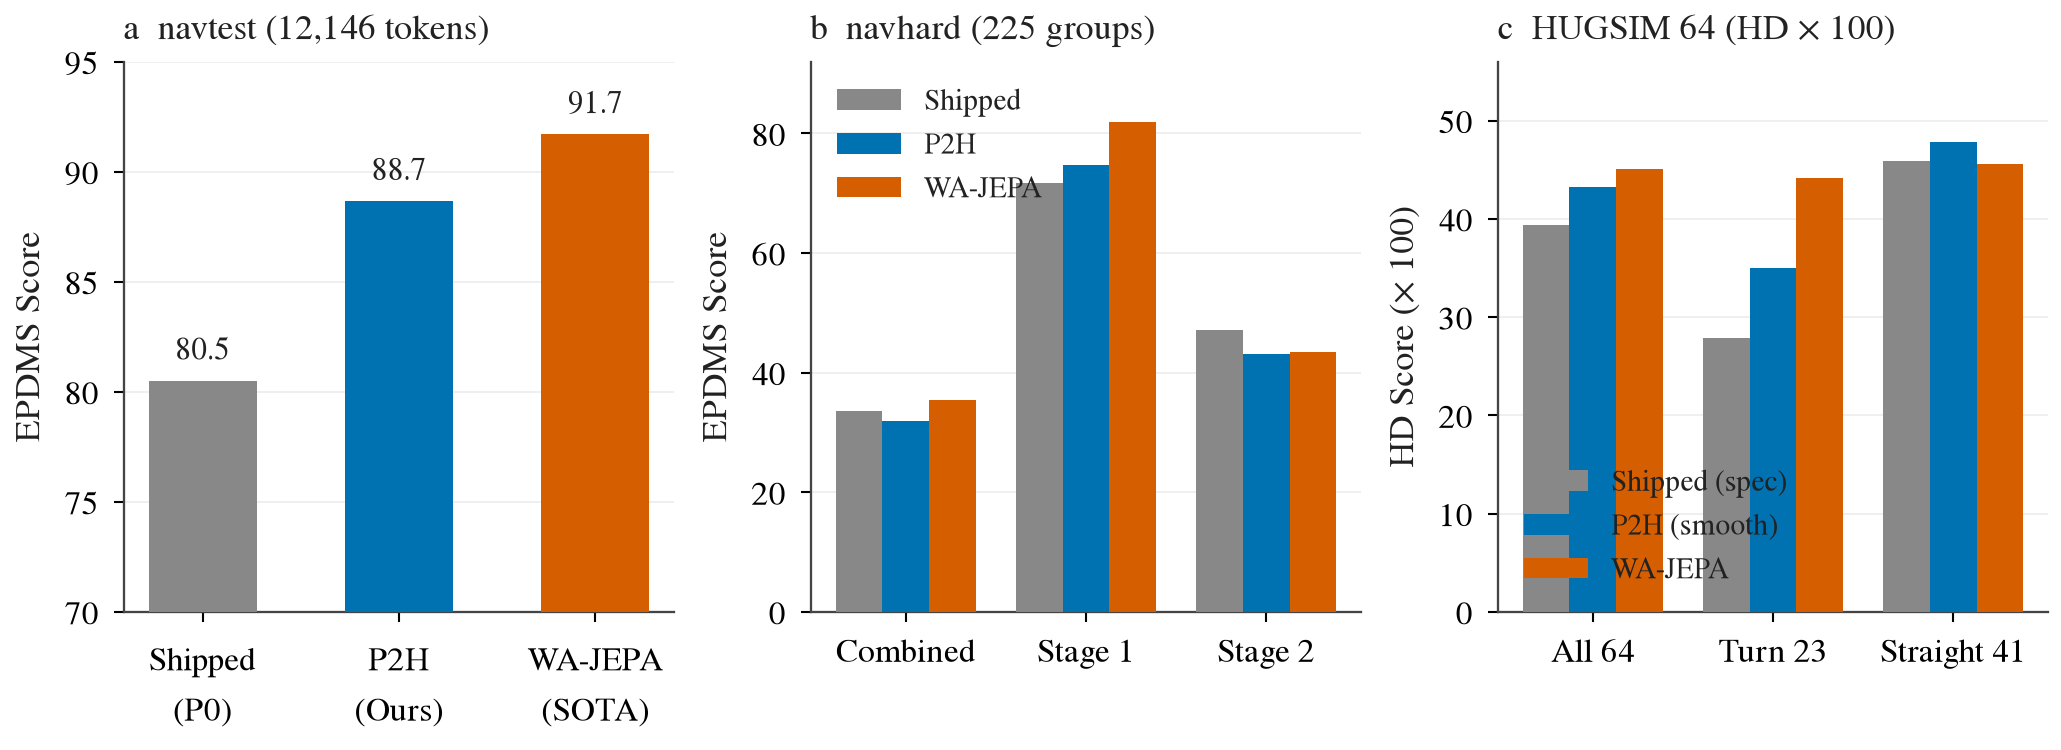
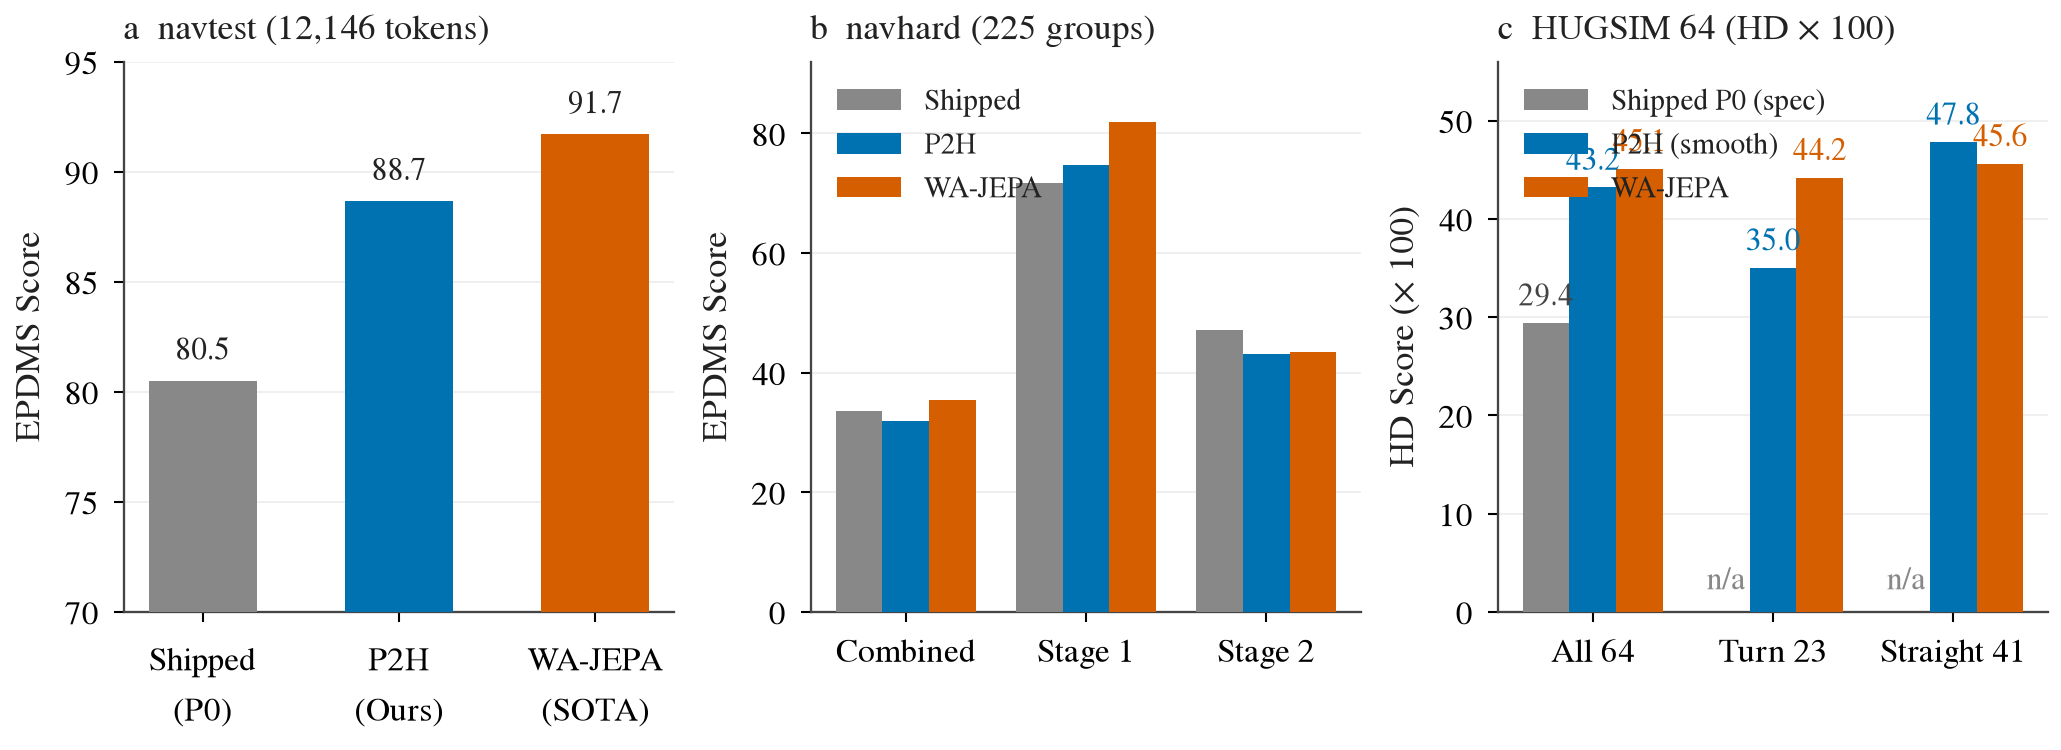
research: correct HUGSIM shipped P0 scores, tone down ego-history slowing claim to hypothesis

diff --git a/research/four-directions.html b/research/four-directions.html
@@ -22,7 +22,7 @@ ul{padding-left:20px}li{margin-bottom:6px}
 <div class="v">
 <b>结论（四个方向一览与定性定位）：</b><br>
 WA-JEPA 对 P2H 的总差距：navtest 为 3.04 [2.32, 3.74] 分，navhard 为 3.57 [−0.21, +7.57] 分，HUGSIM 64 为 +1.9 HD×100 [−5.4, +9.8]（不显著）。三个驾驶方向占 navtest 差距的 2.27 [1.76, 2.77] 分（Shapley 份额）。<br>
-<b>1. 急弯（R &lt; 15 m）：</b>navtest 替换上限 1.04 分（Shapley 0.87），54% 为内侧切角（前角在 3.4 s 切入 0.40 m，原始 plan 66% 已出界），用户直觉的「转不过去」仅占 26%（0.23 分）；HUGSIM 占 2.7 HD 分（5 场景），80% 是入弯过快（中位 9.8 对 WA 2.7 m/s），曲率仅达所需 0.51 倍；根因约 58% 在冻结视觉、40% 在 head 目标，HUGSIM 缺少人类在弯前先减速的自车历史；修复在 replay hinge 与表征提升；下一步为离线薄解码器验证与自车历史匀速探针（全量转弯训练已因 pilot 闭合仅 0.01–0.02 排除）。<br>
+<b>1. 急弯（R &lt; 15 m）：</b>navtest 替换上限 1.04 分（Shapley 0.87），54% 为内侧切角（前角在 3.4 s 切入 0.40 m，原始 plan 66% 已出界），用户直觉的「转不过去」仅占 26%（0.23 分）；HUGSIM 占 2.7 HD 分（5 场景），80% 是入弯过快（中位 9.8 对 WA 2.7 m/s），曲率仅达所需 0.51 倍；推测 HUGSIM 快速入弯源于自车历史中缺少人类弯前减速信号（假说，检验运行中）；根因约 58% 在冻结视觉、40% 在 head 目标；修复在 replay hinge 与表征提升；下一步为离线薄解码器验证与自车历史匀速探针（全量转弯训练已因 pilot 闭合仅 0.01–0.02 排除）。<br>
 <b>2. 宽弯擦边（R ≥ 15 m）：</b>navtest 替换上限 1.00 分（Shapley 0.66），62% 为 &lt; 0.3 m 浅擦边，42% 仅在 devkit LQR 回放时出界；HUGSIM 仅 2 场景且为晚打方向擦外侧（平滑窗口提前抄内角假设被否定）；修复在跟踪器几何前角余量 hinge（replay hinge）；下一步为离线薄解码器门禁。<br>
 <b>3. 撞车：</b>navtest 替换上限 1.16 分（Shapley 0.87），36% 为前方静止车（其中 64% 在转弯 token），49% 碰撞 plan 速度超日志 ≥ 10%；HUGSIM 车辆碰撞（fg）占全部丢失 HD 的 42.8 分（75%），其中 21 场景为脚本对向车（不可规避，停下亦被撞），可修的前方静止/慢车（D3b，10 场景）上限 3.8 分，根因为近距离 lead 测距严重偏远（&lt; 3 m 时多读 +1.95 m）；修复在训练 loss 增加 agent hinge 与执行层 lead 停车余量规则；下一步为 agent hinge pilot 训练与 lead margin 离线 trace 回放。<br>
 <b>4. 夜间 / 低光：</b>navtest、navhard、HUGSIM 64 前摄中位亮度低于 50 的单元均为 0（最暗 55.8–65.0，目检均为白天阴影与阴天），本档损失为 0.00 分；夜间缺陷移至 WOD 档独立处理（openpilot 夜间 ADE@3s +0.43 m）。<br>
@@ -40,15 +40,15 @@ WA-JEPA 对 P2H 的总差距：navtest 为 3.04 [2.32, 3.74] 分，navhard 为 3
 <tr><td>navhard 综合（225 组，G 帧）</td><td>33.54</td><td>30.34</td><td><b>31.84</b> (31.40 / 32.28)</td><td><b>35.41</b></td><td>+3.57 [−0.21, +7.57]</td></tr>
 <tr><td>- navhard 阶段 1（开环日志）</td><td>71.79</td><td>73.13</td><td>74.73</td><td>81.90</td><td>+7.17 [+2.54, +12.27]</td></tr>
 <tr><td>- navhard 阶段 2（偏移起点）</td><td>47.08</td><td>42.44</td><td>43.04</td><td>43.53</td><td>+0.49 [−0.86, +1.84]</td></tr>
-<tr><td>HUGSIM 64 全部（HD × 100，两 seed 均值）</td><td>39.4 (spec) / 39.8 (exam)</td><td>42.5 (smooth)</td><td><b>43.2</b> (43.12 / 43.17)</td><td><b>45.1</b> (45.06)</td><td>+1.9 [−5.4, +9.8]（不显著）</td></tr>
-<tr><td>- HUGSIM 转弯路线（turn23，23 场景）</td><td>27.9 (spec) / 31.2 (exam)</td><td>33.3 (smooth)</td><td>35.0 (35.01)</td><td><b>44.2</b> (44.17)</td><td>+9.2 [−2.1, +20.5]</td></tr>
-<tr><td>- HUGSIM 直行路线（straight41，41 场景）</td><td>45.9 (spec) / 44.6 (exam)</td><td>48.2 (smooth)</td><td><b>47.8</b> (47.75)</td><td>45.6 (45.56)</td><td><b>−2.2</b>（P2H 领先 2.2 分）</td></tr>
+<tr><td>HUGSIM 64 全部（HD × 100）</td><td>26.3 (exam) / 29.4 (spec)</td><td>39.6 (exam) / 39.3 (spec)</td><td><b>43.2 (smooth)</b> (40.0 exam / 39.5 spec)</td><td><b>45.1</b> (45.06)</td><td>+1.9 [−5.4, +9.8]（不显著）</td></tr>
+<tr><td>- HUGSIM 转弯路线（turn23，23 场景）</td><td>n/a</td><td>n/a</td><td><b>35.0 (smooth)</b> (27.8 spec)</td><td><b>44.2</b> (44.17)</td><td>+9.2 [−2.1, +20.5]</td></tr>
+<tr><td>- HUGSIM 直行路线（straight41，41 场景）</td><td>n/a</td><td>n/a</td><td><b>47.8 (smooth)</b> (46.1 spec)</td><td>45.6 (45.56)</td><td><b>−2.2</b>（P2H 领先 2.2 分）</td></tr>
 </table>
-<div class="cite">数据来源：experiments/op_parity/results/four_dirs.md、hinge.md、hugsim_specplan.md、four_dirs/hugsim_tables.md。注：HUGSIM 64 出厂 shipped 早期零输入 exam 读数为 26.3，全量 spec/exam 基线读数为 39.4/39.8。</div>
+<div class="cite">数据来源：experiments/op_parity/results/four_dirs.md、hugsim_full.md（出厂 P0 见第 12 行：exam 0.263 / spec 0.294；P2 见第 14 行：exam 0.396 / spec 0.393）、hinge.md、hugsim_specplan.md（4 臂均值：全量 0.428 smooth / 0.394 spec / 0.398 exam；turn23 0.333 smooth / 0.279 spec / 0.312 exam；straight41 0.482 smooth / 0.459 spec / 0.446 exam；注：4 臂均值为 P2+P2H 跨臂均值，非出厂亦非 P2 单臂）、four_dirs/hugsim_tables.md。出厂 P0 与 P2 单臂未在任何报告文件中评测 turn23 与 straight41 切片，按规则记为 n/a。</div>
 
 <figure>
 <img src="figs/four-directions/fig1_current_position.png" alt="当前位置基准对比">
-<figcaption>图一：P2H、WA-JEPA 与出厂模型在各基准上的得分对比。（a）navtest 上 P2H 达 88.67 分，比出厂提升 8.16 分，距 WA-JEPA 差 3.04 分；（b）navhard 上 P2H 综合为 31.84 分，阶段 2 与 WA-JEPA 持平（43.04 对 43.53），差距集中在阶段 1；（c）HUGSIM 64 闭环中，P2H 在平滑转换下全量得分 43.2，与 WA-JEPA（45.1）无统计显著差距，且在 41 条直行路线上以 47.8 超过 WA-JEPA（45.6），短板集中在 23 条转弯路线（35.0 对 44.2）。</figcaption>
+<figcaption>图一：P2H、WA-JEPA 与出厂模型在各基准上的得分对比。（a）navtest 上 P2H 达 88.67 分，比出厂提升 8.16 分，距 WA-JEPA 差 3.04 分；（b）navhard 上 P2H 综合为 31.84 分，阶段 2 与 WA-JEPA 持平（43.04 对 43.53），差距集中在阶段 1；（c）HUGSIM 64 闭环中，出厂模型 P0 全量 HD 为 29.4（spec，exam 为 26.3，turn23 与 straight41 无数据记为 n/a），P2H 在平滑转换下全量得分 43.2，与 WA-JEPA（45.1）无统计显著差距，且在 41 条直行路线上以 47.8 超过 WA-JEPA（45.6），短板集中在 23 条转弯路线（35.0 对 44.2）。</figcaption>
 </figure>
 
 <figure>
@@ -61,7 +61,7 @@ WA-JEPA 对 P2H 的总差距：navtest 为 3.04 [2.32, 3.74] 分，navhard 为 3
 <h3>1. 典型失败案例与现场</h3>
 <p>
 用户观察到的直觉现象是「车转不过弯，冲出道路」。
-在 HUGSIM 中，该现象完全真实存在，典型案例为 <code>scene-570_770-easy-00</code>（KITTI-360 丁字路口）：P2H 以 12–13 m/s 的高速直冲路口，模型规划的 plan 一直保持笔直，直到距路沿仅剩 1 秒时才急剧打方向，导致车辆以近 10 m/s 冲上对角路沿；exam 预设直接跟踪相同迟钝的 plan 也同样撞上路沿；而 WA-JEPA 在弯前 26 米处就主动将车速减缓至 2.7 m/s，平顺转过路口。<a href="../experiments/op_parity/results/gap/clips/570_770-easy-00.gif" target="_blank">[查看完整闭环 GIF: 570_770-easy-00.gif]</a>。
+在 HUGSIM 中，该现象完全真实存在，典型案例为 <code>scene-570_770-easy-00</code>（KITTI-360 丁字路口）：P2H 以 12–13 m/s 的高速直冲路口，模型规划的 plan 一直保持笔直，直到距路沿仅剩 1 秒时才急剧打方向，导致车辆以近 10 m/s 冲上对角路沿；exam 预设直接跟踪相同迟钝的 plan 也同样撞上路沿；而 WA-JEPA 面对相同指令与自车历史，在弯前 26 米处即表现出减速至 2.7 m/s，平顺转过路口（推测其视觉特征能更早感知路口拓扑）。<a href="../experiments/op_parity/results/gap/clips/570_770-easy-00.gif" target="_blank">[查看完整闭环 GIF: 570_770-easy-00.gif]</a>。
 然而在真实日志开环评测 navtest 上，失败形式截然相反：车辆不是「转不过去」，而是<b>切内角</b>出界。<a href="../experiments/op_parity/results/gap/clips/dac-45935e.gif" target="_blank">[查看 navtest 切内角典型 GIF: dac-45935e.gif]</a>。
 </p>
 
@@ -90,7 +90,7 @@ WA-JEPA 对 P2H 的总差距：navtest 为 3.04 [2.32, 3.74] 分，navhard 为 3
 <li><b>navtest 上并非「转不过去」，而是切内角：</b>在 D1 的 DAC 失败 token 中，<b>内侧切角占 54% [42, 65]%</b>（前保险杠角在 3.4 s 处切入路沿平均 0.40 m；在原始 plan 未经跟踪器回放时已有 66% [56, 75]% 出界）。真正属于「转不过去」（外侧出界且 4 秒航向增益 &lt; 0.9）的仅占 <b>26% [18, 34]%</b>，换算总分仅 0.23 分。失败 plan 的 4 秒航向增益为 1.04，速度与日志完全一致（1.01 倍），终点平均偏向弯道内侧 0.17 m。</li>
 <li><b>表征与解码层拆分：</b>在冻结的 comma 视觉 token 上直接接入薄解码器（决策 147），已有 58% [51, 65]% 的失败 token 无法挽回（WA-JEPA 同位置解码器通过率为 65%）。即约 58% 的内侧切角是由当前冻结的视觉特征决定的，剩余约 40% 源于现有仅约束 8 个稀疏点位姿的铰链损失未对前角切入施加足够惩罚。</li>
 <li><b>HUGSIM 闭环失败是入弯过快，非横向执行层缺陷：</b>5 个失败场景中，<b>入弯过快占 80% [40, 100]%</b>（中位入弯速度达 9.8 m/s 进入 R 8.9 m 的急弯，物理上需要 9.8 m/s² 向心加速度，显然无法完成）。此时 plan 输出的峰值曲率仅有所需曲率的 0.51 倍，80% 的 plan 本身就已经出界。执行层对 plan 的跟随是忠实的（请求曲率 0.030 对 plan 0.027 1/m），clip 限制仅在超速出界时被动触发。因此问题在 plan 自身缺乏弯前降速，而非横向控制器或单点/平滑换算。</li>
-<li><b>navtest 不超速 vs HUGSIM 超速的根因定位：</b>navtest 上人类驾驶员在弯前早早减速（中位进弯初速 7.1 m/s），转向指令切换非常迟（中位 0 s，p90 仅弯前 1.0 s / 7 m），P2H 是通过输入的自车速度/加速度历史感知减速的；但在 HUGSIM 仿真中，车辆由直道加速启动（12–13 m/s），自车历史中没有前序人类踩刹车的信号，P2H 直到指令跳变为转弯（弯前 2.5–6.6 m）才开始减速；而 WA-JEPA 面对相同的指令和速度，在弯前 26 米处纯靠视觉感知就主动完成了减速。</li>
+<li><b>navtest 不超速 vs HUGSIM 超速的推测假说与探针检验：</b>navtest 上人类驾驶员在弯前早已主动减速（中位进弯初速 7.1 m/s），且导航指令跳变极晚（37 次跳变事件中位为 0 s，p90 仅弯前 1.0 s / 7 m），navtest 上 P2H 输出的急弯入弯速度与人类日志高度一致（2 s / 4 s 距离比为 0.997 / 0.986）。据此，<code>four_dirs.md</code> 提出了一个尚未经验证的推测假说（见开放问题）：P2H 在真实日志中的弯前减速可能主要借助自车历史（速度、加速度与位姿历史）中已有人类踩刹车的先验信息，而非纯靠视觉感知；而在 HUGSIM 仿真中，自车由直道正常行驶起步，自车历史中没有人类预先减速的线索，P2H 直到路口指令跳变为转弯（弯前 2.5–6.6 m）才开始减速；相比之下，WA-JEPA 在面对相同指令与自车历史输入时，在弯前 26 米处即表现出显著减速（推测其端到端视觉表征能更早识别路口几何）。<b>目前该假说尚未实测证实，正在运行自车历史匀速探针（ego-history constant-velocity probe，见 <code>experiments/op_parity/results/ego_history_probe.md</code>，通过将弯前自车历史置换为匀速历史对比 P2H 与 WA-JEPA 的计划位移）以给出决定性检验。</b></li>
 <li><b>排除项：全量转弯训练无实质收益：</b>pilot 规模的转弯平衡重采样、转弯关 anchor 及后段权重（<code>turn_train.md</code>）在 &gt; 20° 弯道上对 WA-JEPA 差距闭合仅 0.01–0.02（CI 均包含 0）；在 &gt; 45° 弯道上得分虽微涨 +0.97，但 DAC 失败率未变（−0.03 pp [−0.86, +0.91]），反而在直道与缓弯上付出代价值（缓弯 −0.75 分，全量 DAC 失败增加 +0.29 到 +0.36 pp）。</li>
 </ul>
 
@@ -254,7 +254,7 @@ WA-JEPA 对 P2H 的总差距：navtest 为 3.04 [2.32, 3.74] 分，navhard 为 3
 <table>
 <tr><th>诊断探针臂（基于 seed 0 权重）</th><th>RFS 得分</th><th>d RFS vs shipped [95% CI]</th><th>ADE@3s (m)</th><th>d ADE@3s [95% CI]</th><th>核心读法与推论</th></tr>
 <tr><td>主线 P2H-s0（全输入）</td><td>7.718</td><td>−0.287 [−0.496, −0.085]</td><td>1.312</td><td>+0.271</td><td>基线读数</td></tr>
-<tr><td><b>bias = 0（P2H 权重，输入偏置置零）</b></td><td><b>7.984</b></td><td><b>−0.021 [−0.056, +0.014]</b></td><td><b>1.098</b></td><td><b>+0.058 [+0.049, +0.066]</b></td><td><b>P2H 微调后的主干权重在 WOD 上完全中性，损失 100% 来自 ego-state bias 输入通道！</b></td></tr>
+<tr><td><b>bias = 0（P2H 权重，输入偏置置零）</b></td><td><b>7.984</b></td><td><b>−0.021 [−0.056, +0.014]</b></td><td><b>1.098</b></td><td><b>+0.058 [+0.049, +0.066]</b></td><td><b>P2H 微调后的 plan 权重在 WOD 上表现中性，损失主要源自自车状态 bias 输入通道（特征分布偏移与帧源差异尚未完全隔离）</b></td></tr>
 <tr><td>指令置零（全部设为 UNKNOWN）</td><td>7.625</td><td>−0.380 [−0.605, −0.164]</td><td>1.300</td><td>+0.259</td><td>指令通道非退化原因（置零后甚至略降）</td></tr>
 <tr><td>加速度 ax = ay = 0</td><td>7.731</td><td>−0.274 [−0.486, −0.070]</td><td>1.425</td><td>+0.385</td><td>加速度设为 0 显著拉大 ADE，但不改变 RFS</td></tr>
 <tr><td>从位置反推加速度 ax，ay = 0</td><td>7.732</td><td>−0.273 [−0.469, −0.086]</td><td>1.171</td><td>+0.131 [+0.077, +0.185]</td><td>位置推导加速度将 ADE 显著拉回 0.14 m，但 RFS 仍差 −0.27</td></tr>
@@ -264,7 +264,7 @@ WA-JEPA 对 P2H 的总差距：navtest 为 3.04 [2.32, 3.74] 分，navhard 为 3
 <h3>3. 对 WOD 档的战略含义</h3>
 <ul>
 <li><b>微调权重本身具备良好的跨域通用性：</b>当把适配器 bias 设为 0 时，P2H 在 WOD 上的 RFS 差距仅为 −0.02（CI 包含 0），ADE 仅微增 0.06 m。这证明在 NAVSIM 上针对 plan 头微调的轨迹几何先验没有破坏模型的通用驾驶能力。</li>
-<li><b>损失完全来自自车状态特征分布偏移：</b>WOD 的传感器分布与 NAVSIM 存在明显差异：WOD 实测加速度的离散度极小（ax/3 标准差仅 0.089，而 NAVSIM 为 0.253，相差近 3 倍；ay/3 标准差仅 0.034 对 0.225，相差近 7 倍）；此外 WOD 缺乏真值朝向角（需用弦向推导），输入适配器在输入了分布偏移的 ego 特征后，输出的 plan 速度整体变慢了 4%（5 秒位移比 0.916 对出厂 0.959）。</li>
+<li><b>损失主要来自自车状态特征输入通道适配偏差：</b>WOD 的传感器分布与 NAVSIM 存在明显差异：WOD 实测加速度的离散度极小（ax/3 标准差仅 0.089，而 NAVSIM 为 0.253，相差近 3 倍；ay/3 标准差仅 0.034 对 0.225，相差近 7 倍）；此外 WOD 缺乏真值朝向角（需用弦向推导），输入适配器在输入了分布偏移的 ego 特征后，输出的 plan 速度整体变慢了 4%（5 秒位移比 0.916 对出厂 0.959）。</li>
 <li><b>独立分档决策完全正确：</b>在 NAVSIM 上训练的自车状态适配器无法零样本迁移至 WOD。WOD 档必须作为一个独立层级，在 WOD 训练集上重新拟合 P2 适配器，或彻底隔离其自车输入接口。HUGSIM + NAVSIM 档无需受 WOD 牵制。</li>
 </ul>
 

diff --git a/research/make_four_dirs_figs.py b/research/make_four_dirs_figs.py
@@ -69,20 +69,31 @@ def make_fig1():
     width = 0.26
     
     # All 64, Turn 23, Straight 41
-    # P2H under spec_plan_smooth
-    shipped_hd = [39.4, 27.9, 45.9] # spec
+    # Shipped P0: 29.4 spec / 26.3 exam on All 64 (hugsim_full.md line 12); n/a on Turn 23 and Straight 41
+    # P2H under spec_plan_smooth: 43.2 on All 64, 35.0 on Turn 23, 47.8 on Straight 41 (four_dirs/hugsim.md)
+    # WA-JEPA: 45.1 on All 64, 44.2 on Turn 23, 45.6 on Straight 41
+    shipped_hd = [29.4, 0, 0]
     p2h_hd = [43.2, 35.0, 47.8]
     wa_hd = [45.1, 44.2, 45.6]
     
-    b1 = ax.bar(x - width, shipped_hd, width, label='Shipped (spec)', color=c_shipped, zorder=3)
+    b1 = ax.bar(x - width, shipped_hd, width, label='Shipped P0 (spec)', color=c_shipped, zorder=3)
     b2 = ax.bar(x, p2h_hd, width, label='P2H (smooth)', color=c_p2h, zorder=3)
     b3 = ax.bar(x + width, wa_hd, width, label='WA-JEPA', color=c_wajepa, zorder=3)
+    
+    ax.text(x[0] - width, 29.4 + 1, "29.4", ha='center', va='bottom', fontsize=7.5, color='#444444')
+    ax.text(x[1] - width, 1.5, "n/a", ha='center', va='bottom', fontsize=7.5, color='#888888')
+    ax.text(x[2] - width, 1.5, "n/a", ha='center', va='bottom', fontsize=7.5, color='#888888')
+    
+    for xi, val in zip(x, p2h_hd):
+        ax.text(xi, val + 1, f"{val:.1f}", ha='center', va='bottom', fontsize=7.5, color=c_p2h)
+    for xi, val in zip(x, wa_hd):
+        ax.text(xi + width, val + 1, f"{val:.1f}", ha='center', va='bottom', fontsize=7.5, color=c_wajepa)
     
     ax.set_xticks(x)
     ax.set_xticklabels(['All 64', 'Turn 23', 'Straight 41'])
     ax.set_ylabel("HD Score (× 100)")
     ax.set_ylim(0, 56)
-    ax.legend(loc='lower left', fontsize=7)
+    ax.legend(loc='upper left', fontsize=7)
     ax.grid(axis='x', visible=False)
     
     stem = OUT_DIR / "fig1_current_position"
